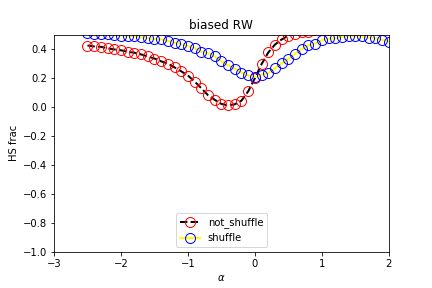
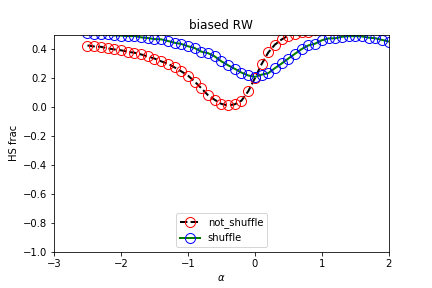
point

diff --git a/pointPlot/pointPlot.py b/pointPlot/pointPlot.py
@@ -7,7 +7,7 @@ outputName = ""
 plotRangeX = [-3,2] #自動範囲の場合[]にする
 plotRangeY = [-1,0.5] #自動範囲の場合[]にする
 withLines = True
-lineColors = ["black","yellow"]
+lineColors = ["black","green"]
 dottedLine = [True, False]
 withPoints = True
 pointColors = ["red","blue"]
@@ -27,7 +27,6 @@ legendPosition = "lower center" #凡例の位置:lower,upperで縦方向、left,
 import matplotlib.pyplot as plt
 import pandas as pd
 import os
-import numpy as np
 
 # データ読み取り
 xList = []
@@ -88,4 +87,3 @@ if (not os.path.exists("output")):
 plt.savefig("output/" + outputName + ".png")
 plt.savefig("output/" + outputName + ".eps", transparent=True)
 plt.savefig("output/" + outputName + ".pdf", transparent=True)
-plt.savefig("output/" + outputName + ".emf", transparent=True)
